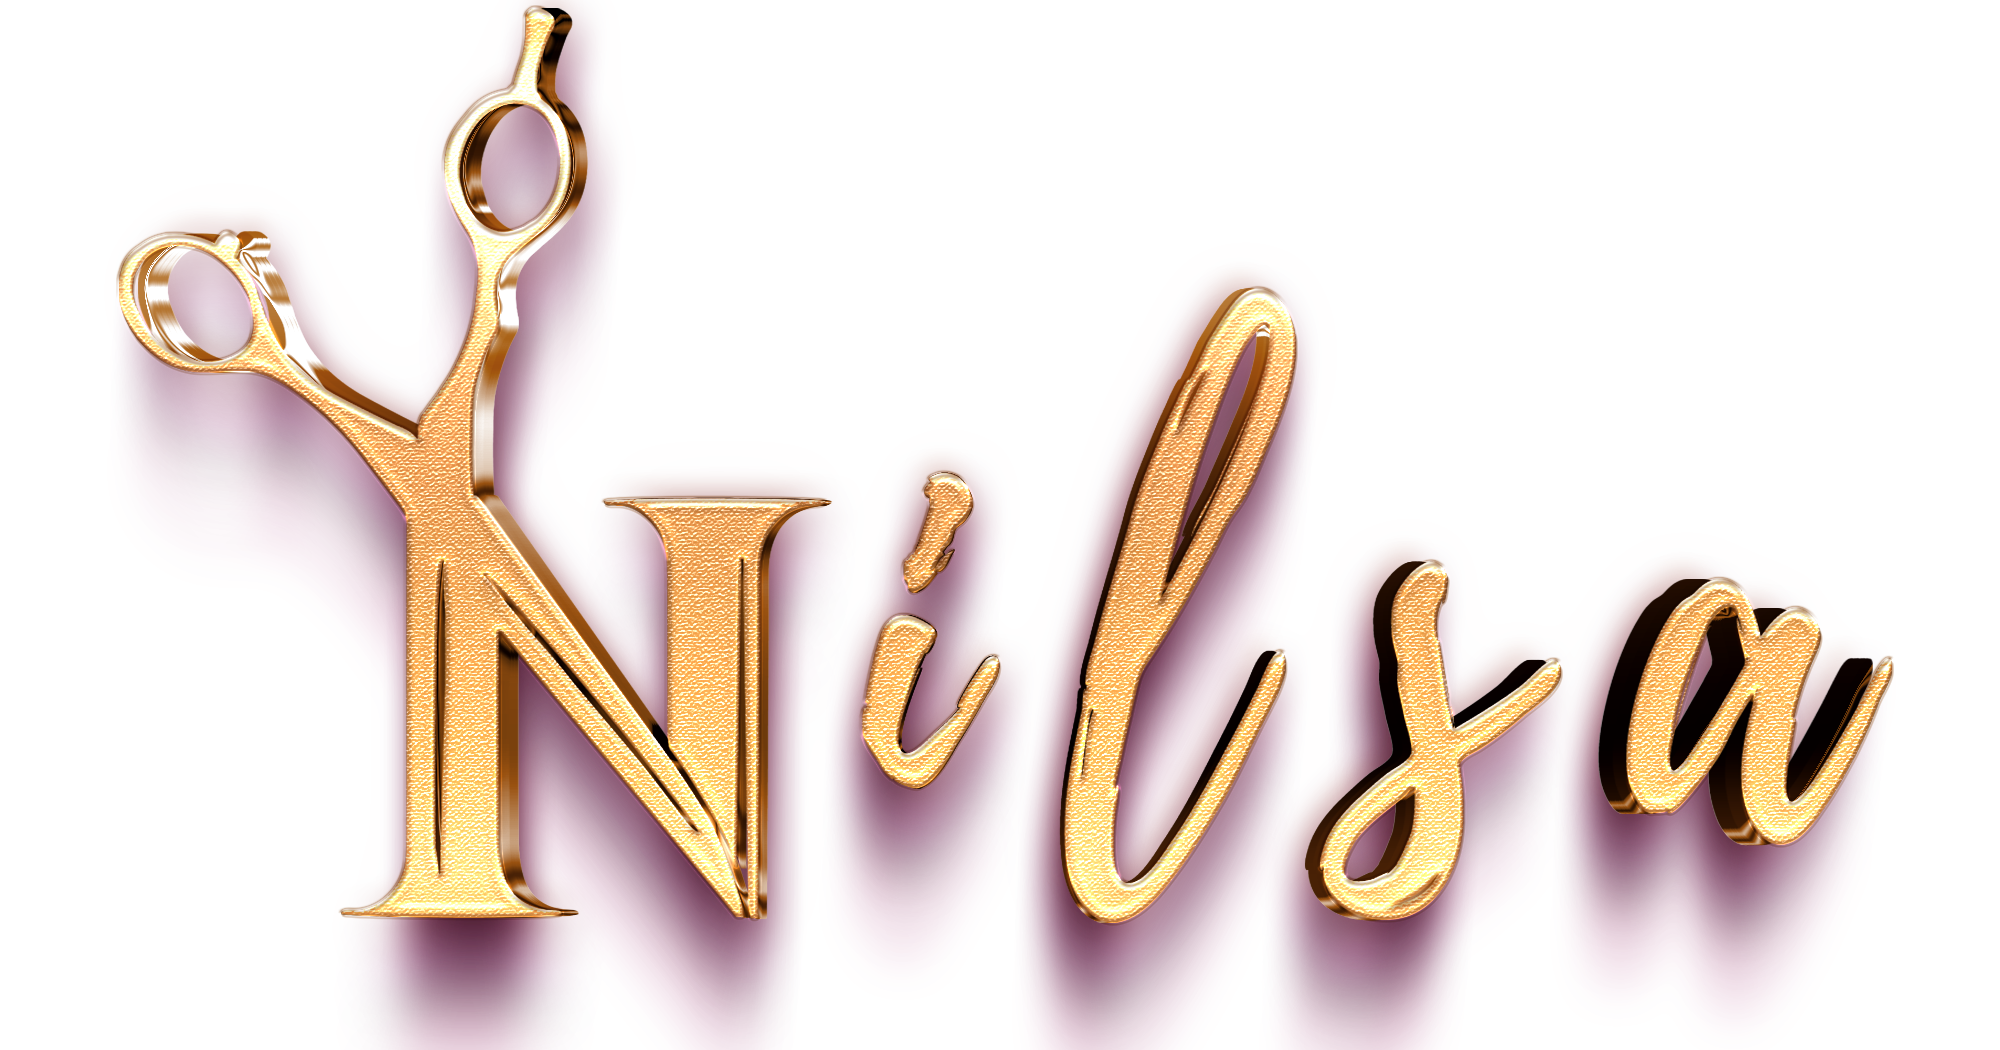
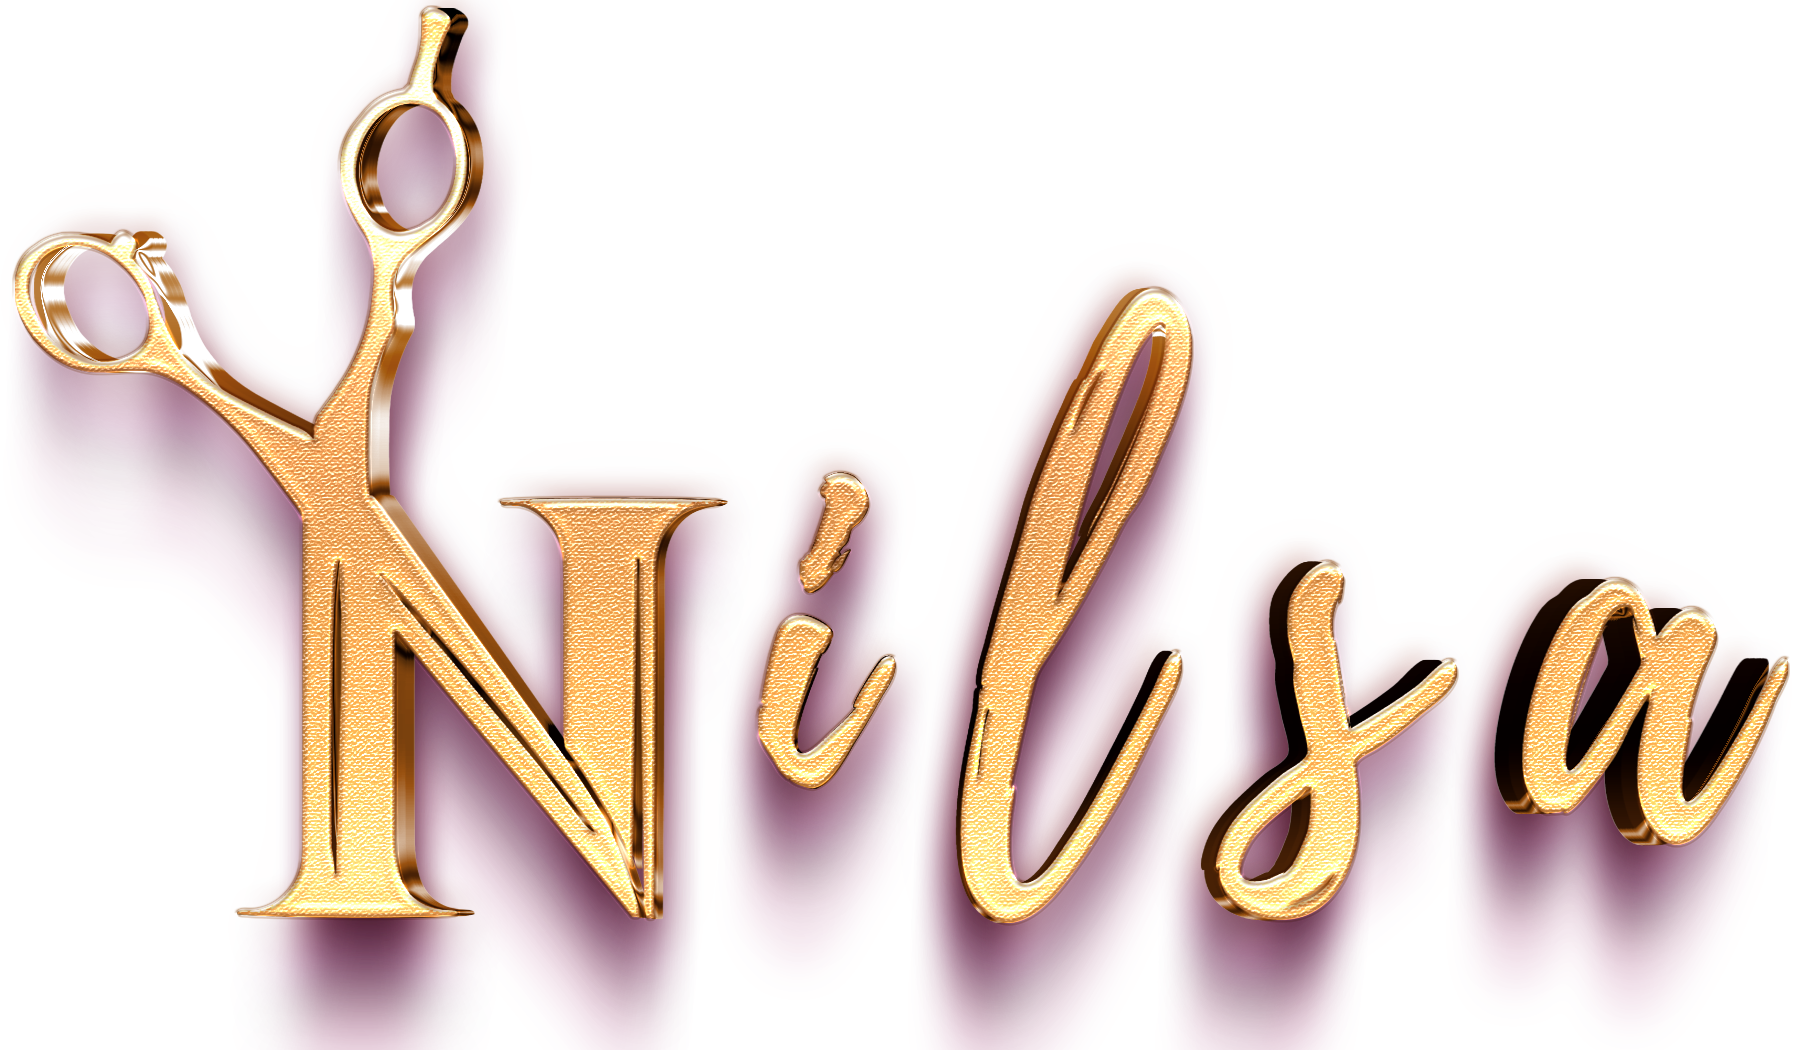
4
4

diff --git a/index.html b/index.html
@@ -6,8 +6,7 @@
   <title>NILSA | CONTACTO</title>
   <!-- CSS de Bootstrap 5 -->
   <link href="https://cdn.jsdelivr.net/npm/bootstrap@5.3.0-alpha2/dist/css/bootstrap.min.css" rel="stylesheet" integrity="sha384-aFq/bzH65dt+w6FI2ooMVUpc+21e0SRygnTpmBvdBgSdnuTN7QbdgL+OapgHtvPp" crossorigin="anonymous">
-  <script src="https://cdn.jsdelivr.net/npm/bootstrap@5.3.0-alpha2/dist/js/bootstrap.bundle.min.js" integrity="sha384-qKXV1j0HvMUeCBQ+QVp7JcfGl760yU08IQ+GpUo5hlbpg51QRiuqHAJz8+BrxE/N" crossorigin="anonymous"></script>
-  <!-- CSS personalizado -->
+  
   <style>
    /* Estilos para el fondo y los enlaces */
 body {
@@ -49,7 +48,9 @@ a {
   display: grid;
   grid-template-columns: repeat(2, 1fr);
   grid-template-rows: repeat(1, 1fr);
-  grid-gap: 20px;
+  grid-gap: 0px;
+  margin: -32px 0 0 0px;
+
 }
 
 
@@ -124,11 +125,11 @@ a {
 /* LOGO RESPONSIVE */
 .bimg{border-radius: 50%; border: 2rem double rgb(255, 0, 89);    margin: 117px 0 0 0px;
  }
-.ubiimg1{position: absolute;transform: translate(-399px,162px);scale: 1;}
+.ubiimg1{position: absolute;transform: translate(-393px,162px);scale: 1;max-width: 400px;}
 .ubiimg2{position: absolute;transform: translate(-267px,97px);max-width: 283px;scale: 1.3;}
-.ubiimg3{position: absolute;transform: translate(-410px,10px);max-width: 230px;rotate: z -3deg;}
-.ubiimg4{position: absolute;transform: translate(-198px,54px);max-width: 225px;rotate: z 5deg;}
-.ubiimg5{position: absolute;transform: translate(-321px,-181px);max-width: 371px;scale: 1.2;}
+.ubiimg3{position: absolute;transform: translate(-405px,10px);max-width: 215px;rotate: z -3deg;}
+.ubiimg4{position: absolute;transform: translate(-198px,54px);max-width: 199px;rotate: z 5deg;}
+.ubiimg5{position: absolute;transform: translate(-306px,-181px);max-width: 325px;scale: 1.2;}
 
 .linktree-header img {
     height: auto;
@@ -230,7 +231,7 @@ animation: pulse 1.25s infinite cubic-bezier(0.66, 0, 0, 1);
     <div><img class="ubiimg5" src="/img/LETRA mscript  tijeras.png" alt="Foto de perfil"></div>
 
     </div>
-
+    <h1 class="py-3">Contacto y Redes Sociales</h1>
     <div class="container linktree-grid">
     <div class="linktree-block">
       
@@ -242,7 +243,8 @@ animation: pulse 1.25s infinite cubic-bezier(0.66, 0, 0, 1);
       
       <a href="https://t.me/mi_usuario" target="_blank" class="imgrds btn btn-lg " data-bs-toggle="tooltip" data-bs-placement="bottom" title="Enviar mensaje de Telegram">
         <img class="imgrds" src="img/icons/icons8_telegram_app.svg"></a>
-    </div>
+    </div>        
+        
     <div class="linktree-block">
       
       <a href="https://www.facebook.com/mi_usuario" target="_blank" class="imgrds btn btn-lg " data-bs-toggle="tooltip" data-bs-placement="bottom" title="Visitar mi perfil de Facebook">
@@ -255,9 +257,21 @@ animation: pulse 1.25s infinite cubic-bezier(0.66, 0, 0, 1);
     </div>
   </div>
   </div>
+
+
+
+
+
+
+
+
+
+
+
+
   <!-- JS de Bootstrap 5 -->
-  <script src="https://cdnjs.cloudflare.com/ajax/libs/bootstrap/5.0.2/js/bootstrap.min.js"></script>
-  <!-- JS personalizado -->
+  <script src="https://cdn.jsdelivr.net/npm/bootstrap@5.3.0-alpha2/dist/js/bootstrap.bundle.min.js" integrity="sha384-qKXV1j0HvMUeCBQ+QVp7JcfGl760yU08IQ+GpUo5hlbpg51QRiuqHAJz8+BrxE/N" crossorigin="anonymous"></script>
+  
   <script src="ruta/a/tu/archivo/js.js"></script>
 </body>
 </html>
